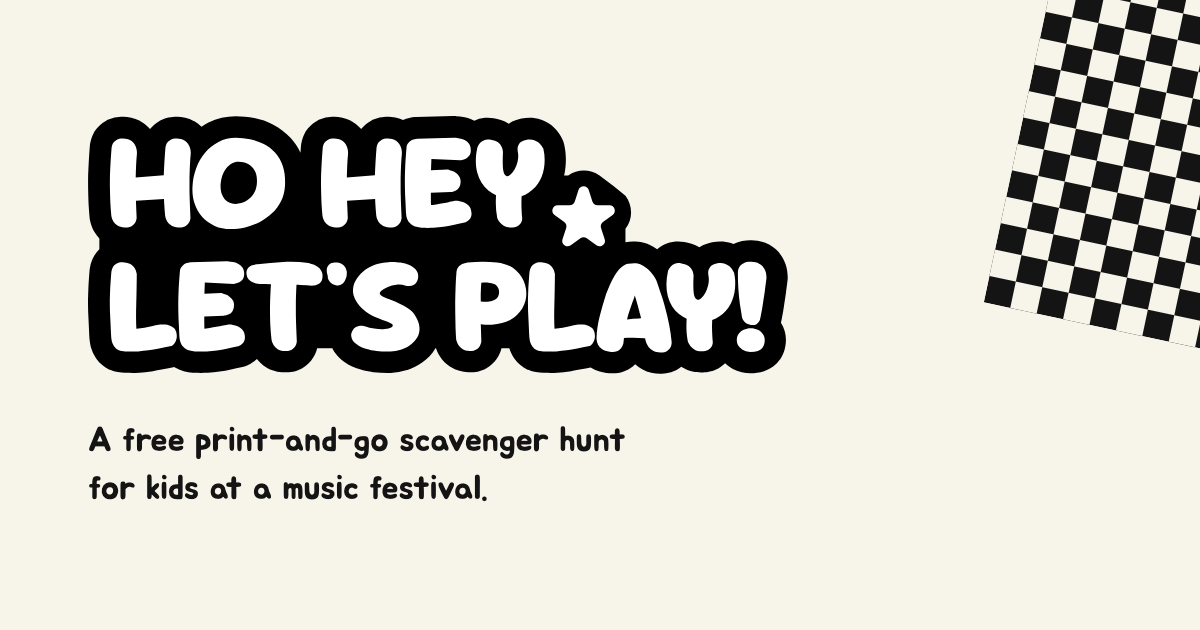
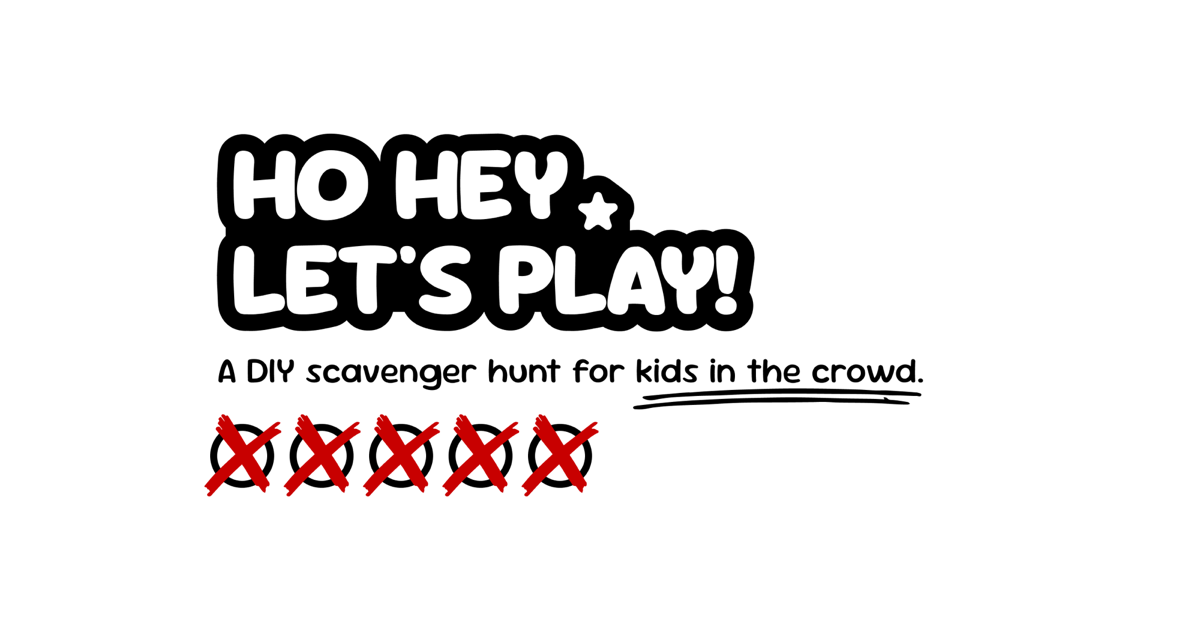
Set the site in Sour Gummy alone and hand-draw the social card
Jua is gone from the sheets, so it goes from the site too: --font-body now
resolves to Sour Gummy, which carries body copy at 400 and headings at 900.
The fix is in fetch-fonts.mjs rather than the generated fonts.css, since that
file carries a "do not edit by hand" banner and would regenerate over any
manual edit. The orphaned jua-latin.woff2 and its preload go with it.

The social card is now artwork — wordmark, lede, and a row of tally circles
crossed off in red — which no script can reproduce. og.html and render-og.sh
would have silently overwritten it the next time anyone followed CLAUDE.md's
instruction to run `npm run og`, so both are deleted along with the npm
script, and CLAUDE.md now says the card is hand-made and how to replace it.

Changed region(s): [[0.0617, 0.181, 0.7708, 0.6635], [0.8017, 0.0, 1.0, 0.573], [0.0617, 0.6635, 0.5242, 0.8143]]

diff --git a/index.html b/index.html
@@ -15,11 +15,10 @@
 <meta property="og:image" content="https://heyho.ludoratory.com/assets/og.png">
 <meta property="og:image:width" content="1200">
 <meta property="og:image:height" content="630">
-<meta property="og:image:alt" content="The Ho Hey, Let's Play! wordmark above the line: a free print-and-go scavenger hunt for kids at a music festival.">
+<meta property="og:image:alt" content="The Ho Hey, Let's Play! wordmark above the line: a DIY scavenger hunt for kids in the crowd, over a row of tally circles crossed off in red.">
 <meta name="twitter:card" content="summary_large_image">
 <meta name="theme-color" content="#141414">
 <link rel="preload" href="/assets/fonts/sour-gummy-latin.woff2" as="font" type="font/woff2" crossorigin>
-<link rel="preload" href="/assets/fonts/jua-latin.woff2" as="font" type="font/woff2" crossorigin>
 <link rel="stylesheet" href="/assets/fonts/fonts.css">
 <link rel="stylesheet" href="/styles.css">
 </head>

diff --git a/styles.css b/styles.css
@@ -1,5 +1,5 @@
 /* Ho Hey, Let's Play! — hand-written, no build step, no framework.
-   Sour Gummy (900) shouts, Jua talks. */
+   One family throughout: Sour Gummy shouts at 900, talks at 400. */
 
 :root {
   --ink: #141414;
@@ -14,7 +14,7 @@
   --wrap: 34rem;
 
   --font-display: 'Sour Gummy', 'Trebuchet MS', system-ui, sans-serif;
-  --font-body: 'Jua', 'Trebuchet MS', system-ui, sans-serif;
+  --font-body: 'Sour Gummy', 'Trebuchet MS', system-ui, sans-serif;
 }
 
 *, *::before, *::after { box-sizing: border-box; }

diff --git a/assets/fonts/fonts.css b/assets/fonts/fonts.css
@@ -1,13 +1,5 @@
 /* Generated by scripts/fetch-fonts.mjs — do not edit by hand. */
 @font-face {
-  font-family: 'Jua';
-  font-style: normal;
-  font-weight: 400;
-  font-display: swap;
-  src: url('./jua-latin.woff2') format('woff2');
-  unicode-range: U+0000-00FF, U+0131, U+0152-0153, U+02BB-02BC, U+02C6, U+02DA, U+02DC, U+0304, U+0308, U+0329, U+2000-206F, U+20AC, U+2122, U+2191, U+2193, U+2212, U+2215, U+FEFF, U+FFFD;
-}
-@font-face {
   font-family: 'Sour Gummy';
   font-style: normal;
   font-weight: 100 900;

diff --git a/CLAUDE.md b/CLAUDE.md
@@ -26,7 +26,7 @@ Do not "fix" these by aligning with the parent stack.
 - `api/feedback.ts` — the only endpoint. **Every file in `api/` becomes a public
   route**, so shared code lives in `lib/`
 - `lib/` — pure, unit-tested modules: validation, email composition, responses
-- `scripts/` — asset generation: fonts, PDF previews, OG image
+- `scripts/` — asset generation: fonts, PDF previews
 - `assets/` — the PDF, its preview renders, fonts, the social card
 
 ## Commands
@@ -37,8 +37,14 @@ npm run typecheck # tsc --noEmit
 npm run serve     # vercel dev (needs `vercel link` once)
 npm run fonts     # re-download the self-hosted woff2 files
 npm run previews  # re-render page-1.png / page-2.png from the PDF
-npm run og        # re-render the 1200×630 social card
 ```
+
+`assets/og.png` is **hand-made, not generated** — it is a drawn 1200×630 card,
+not something a script can reproduce. There used to be an `og.html` plus a
+headless-Chrome `npm run og` that rendered a wordmark-and-line version; both
+were deleted once the card became artwork, because running them would have
+silently overwritten it. Replace the card by dropping in a new 1200×630 PNG and
+updating `og:image:alt` in `index.html` to match.
 
 The dev server script is `serve`, **not** `dev`, and must stay that way. No
 framework is detected here, so `vercel dev` falls back to running `npm run dev`
